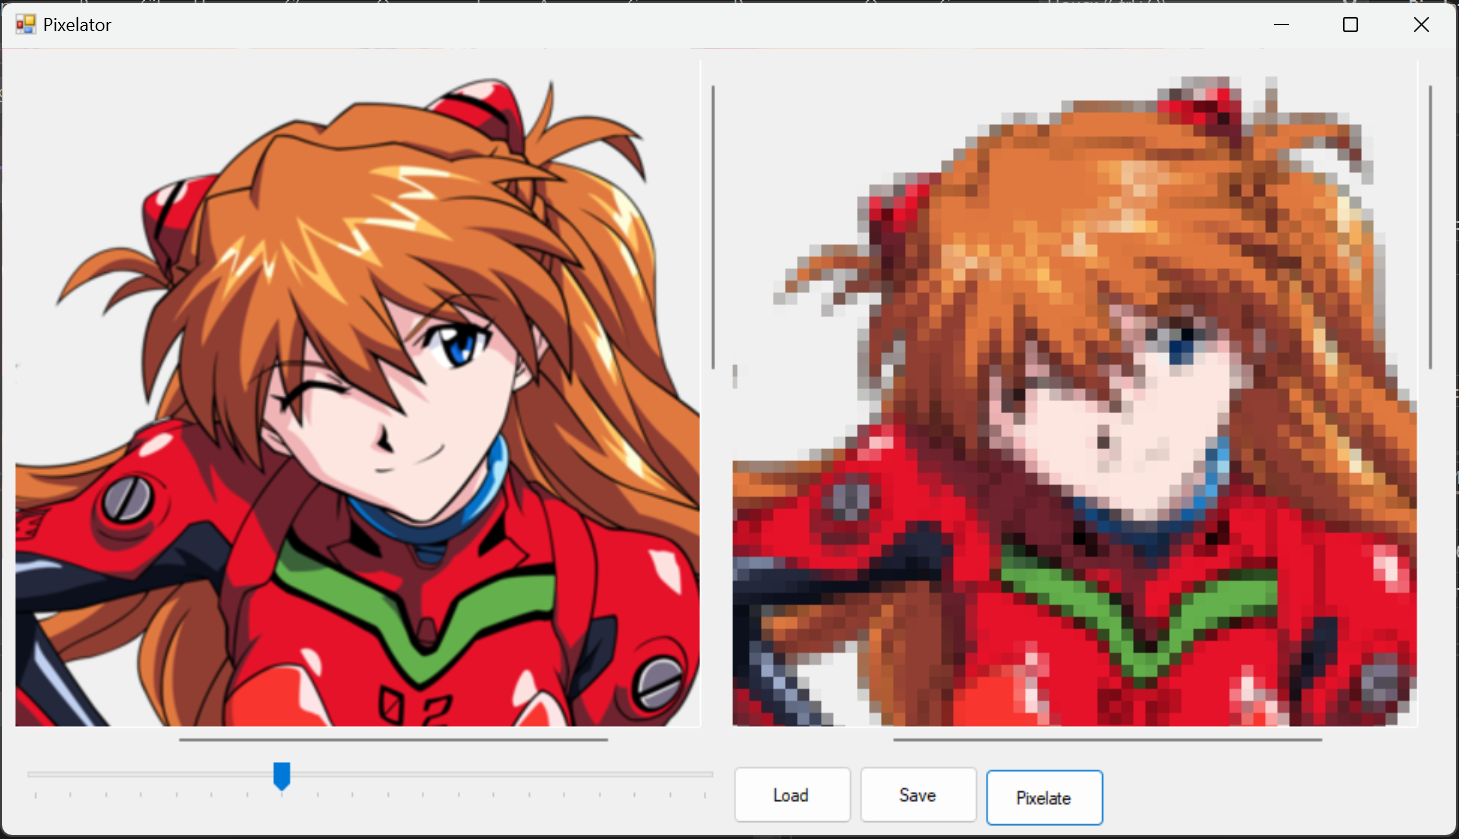
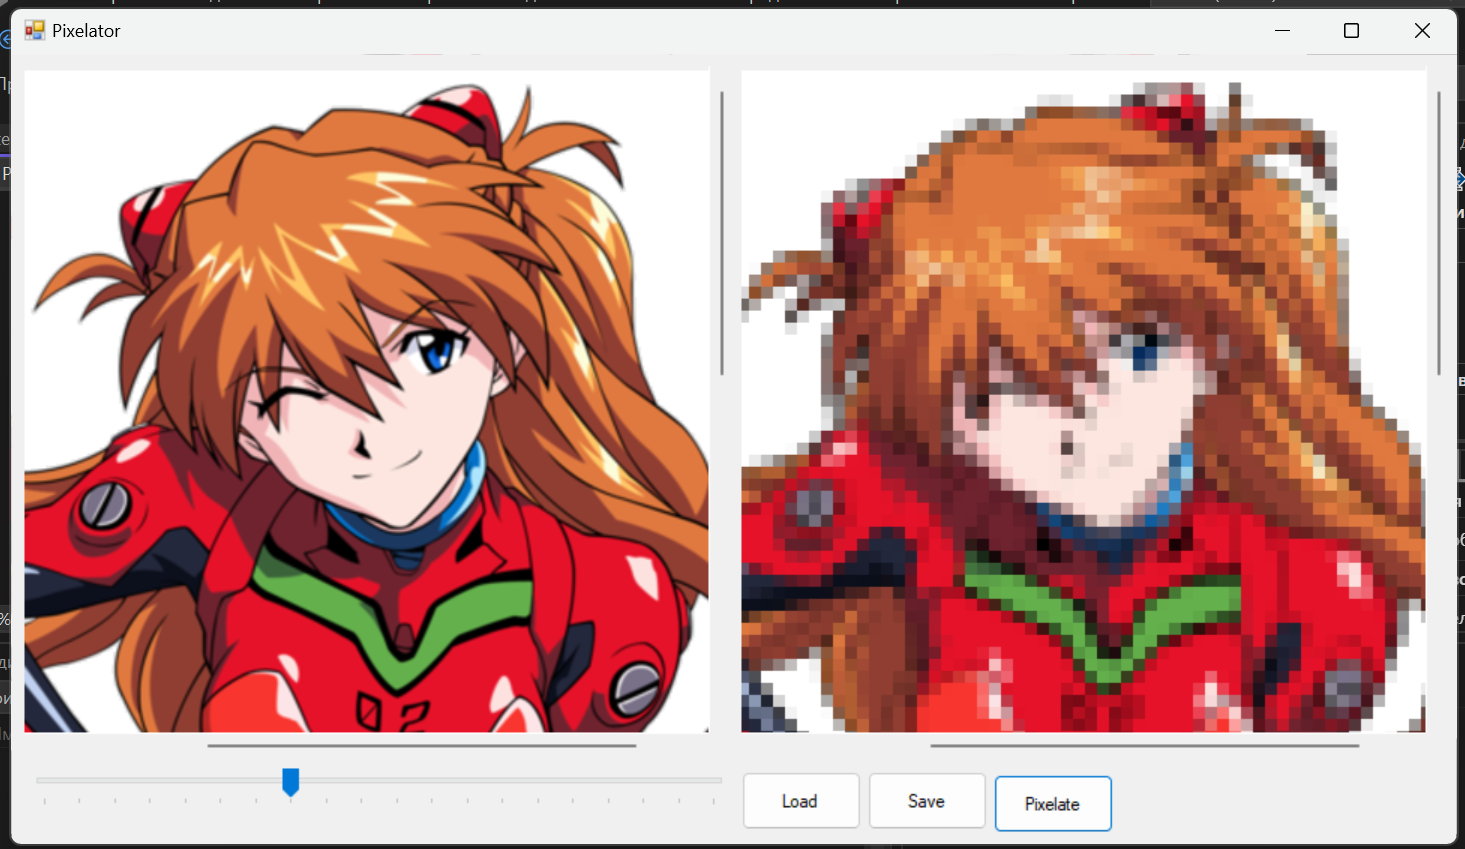
now all pixels are opaque

diff --git a/Pixelator/Pixelizer.cs b/Pixelator/Pixelizer.cs
@@ -140,6 +140,8 @@ namespace Pixelator
             pixel.G = g / (degree * degree);
             pixel.B = b / (degree * degree);
 
+            pixel.A = pixel.A < 255 && pixel.A > 0 ? 255 : pixel.A; //now all pixels are opaque
+
             return pixel;
         }
     }
